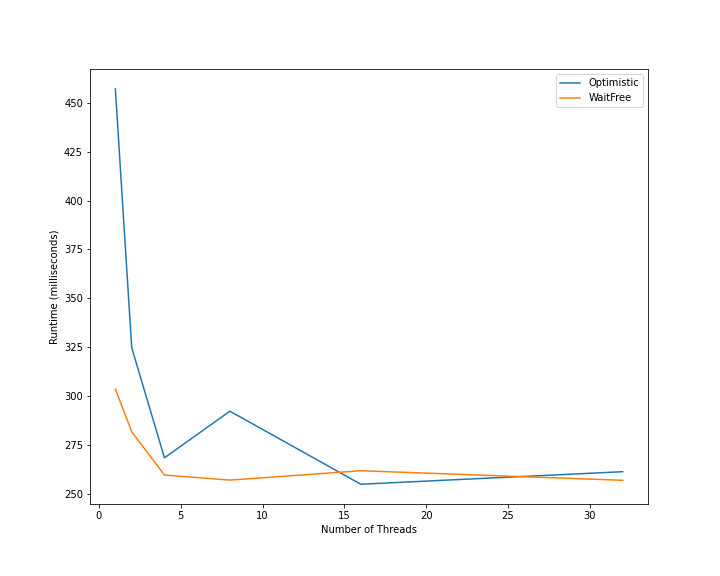
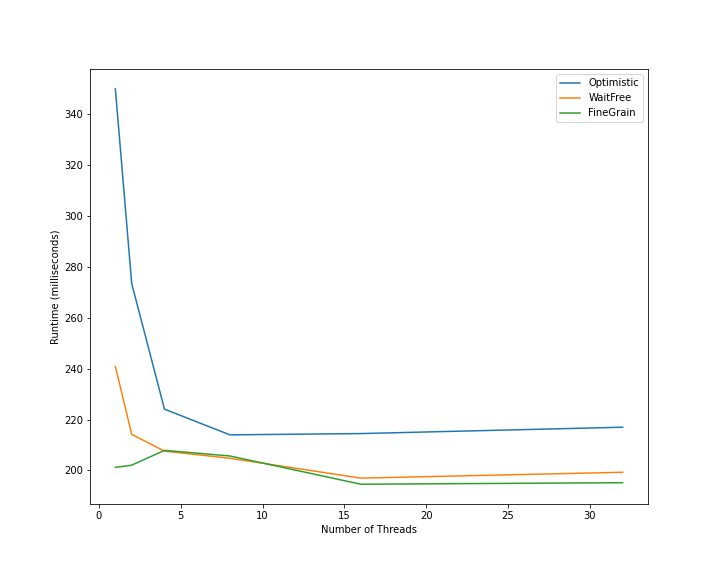
Final Stuff Hopefully

diff --git a/README.md b/README.md
@@ -17,4 +17,11 @@ This trie uses a hand over hand locking mechanism to ensure thread safety across
 
 ### Testing
 
-As of now, the Fine-Grain trie has not been tested. However, both the Optimistic and Lock-Free tries are being tested and compared in the same enviornment with the differences shown in the graph directory.
+All three implementations are tested using the TrieTest1.java within the testing directory. This test creates a random number of operations to be performed between 100,000 and 500,000. It then randomly selects which operations get performed and in what order, and this selection will be the same for all three implementations.
+
+# How to Run
+
+In order to run the test case, you can open the Jupyter Notebook file and just run all cells.
+
+** PLEASE NOTE **
+The Jupyter Notebook does make some system calls within the the ThreadedTries directory. If you are not okay with this happening on your machine, you can either run it on a VM or just look at the last run currently in the notebook.
